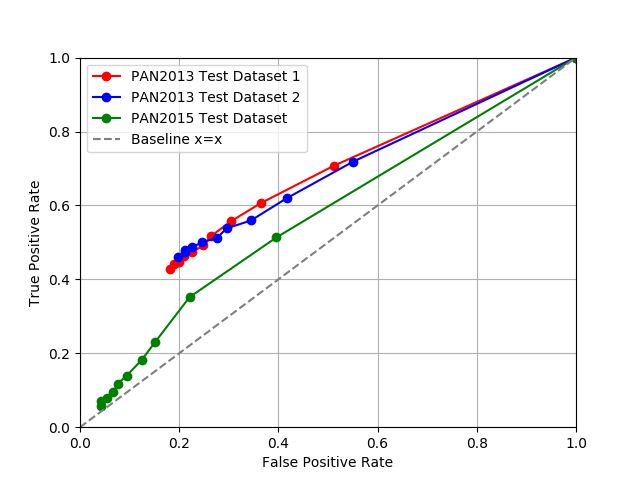
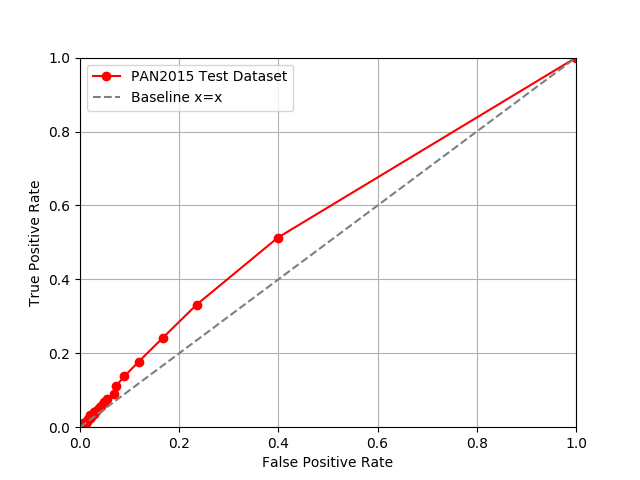
Add AUROC computation

diff --git a/report/graph_generation/delta_method_roc.py b/report/graph_generation/delta_method_roc.py
@@ -3,48 +3,48 @@
 import matplotlib.pyplot as plt
 import numpy as np
 
-# 13 1.
-tprs13_1 = np.array([
-    1.0, 0.7070000000000001, 0.60625, 0.55675, 0.5175, 0.49225, 0.47375,
-    0.46275000000000005, 0.44575, 0.4405, 0.42675])
-fprs13_1 = np.array([
-    1.0, 0.5112244897959184, 0.36448979591836733, 0.3038775510204082,
-    0.2646938775510204, 0.24877551020408162, 0.22653061224489796,
-    0.20918367346938777, 0.19918367346938776, 0.18918367346938775,
-    0.1816326530612245])
+tprs = np.array([
+    1.0, 0.5128, 0.33159999999999995, 0.2414, 0.17679999999999998, 0.1376,
+    0.1118, 8.88e-2, 7.58e-2, 6.82e-2, 5.74e-2, 5.08e-2, 4.44e-2, 3.98e-2,
+    3.5e-2, 3.18e-2, 2.6600000000000002e-2, 2.3799999999999998e-2, 2.4e-2,
+    2.2799999999999997e-2, 1.92e-2, 1.6e-2, 1.4199999999999999e-2,
+    1.1200000000000002e-2, 1.24e-2, 1.34e-2, 1.08e-2, 1.06e-2,
+    1.1200000000000002e-2, 1.06e-2, 7.6e-3, 9.2e-3, 6.999999999999999e-3,
+    7.2e-3, 6.2e-3, 4.4e-3, 5.8e-3, 5.8e-3, 3.4000000000000002e-3,
+    5.600000000000001e-3, 4.6e-3, 4.2e-3, 4.4e-3, 3.6e-3, 3.2e-3, 4.0e-3,
+    2.4e-3, 1.6e-3, 2.8000000000000004e-3, 2.6e-3, 2.8000000000000004e-3,
+    2.0e-3, 1.8e-3, 3.4000000000000002e-3, 2.4e-3, 2.6e-3, 6.0e-4, 1.2e-3,
+    1.8e-3, 1.2e-3, 1.4000000000000002e-3, 1.8e-3, 2.2e-3,
+    1.4000000000000002e-3, 2.0e-3, 1.8e-3, 1.4000000000000002e-3,
+    1.4000000000000002e-3, 1.4000000000000002e-3, 1.0e-3,
+    1.4000000000000002e-3, 1.4000000000000002e-3, 1.6e-3, 1.0e-3, 1.2e-3,
+    1.4000000000000002e-3, 8.0e-4, 1.6e-3, 6.0e-4, 1.0e-3, 8.0e-4, 4.0e-4,
+    8.0e-4, 1.0e-3, 6.0e-4, 4.0e-4, 2.0e-4, 6.0e-4, 4.0e-4, 4.0e-4, 6.0e-4,
+    4.0e-4, 0.0, 4.0e-4, 1.4000000000000002e-3, 8.0e-4, 6.0e-4, 2.0e-4,
+    4.0e-4, 2.0e-4, 2.0e-4, 0.0])
+fprs = np.array([
+    1.0, 0.39880000000000004, 0.2352, 0.1666, 0.11800000000000001, 8.94e-2,
+    7.26e-2, 6.82e-2, 5.42e-2, 4.8799999999999996e-2, 4.18e-2, 3.9e-2,
+    3.32e-2, 2.78e-2, 2.76e-2, 1.9799999999999998e-2, 2.2799999999999997e-2,
+    2.0e-2, 2.02e-2, 1.68e-2, 1.54e-2, 1.3999999999999999e-2,
+    1.2199999999999999e-2, 1.3000000000000001e-2, 1.28e-2, 1.18e-2, 1.16e-2,
+    8.4e-3, 8.199999999999999e-3, 8.0e-3, 4.8e-3, 5.600000000000001e-3,
+    7.8000000000000005e-3, 6.6e-3, 5.0e-3, 5.600000000000001e-3,
+    3.4000000000000002e-3, 3.2e-3, 4.0e-3, 3.8e-3, 2.4e-3, 4.2e-3, 2.2e-3,
+    3.2e-3, 1.6e-3, 2.4e-3, 2.0e-3, 1.8e-3, 1.6e-3, 1.4000000000000002e-3,
+    8.0e-4, 1.8e-3, 2.0e-4, 1.8e-3, 6.0e-4, 2.0e-4, 1.0e-3, 1.0e-3,
+    1.4000000000000002e-3, 8.0e-4, 2.8000000000000004e-3, 1.8e-3,
+    1.4000000000000002e-3, 8.0e-4, 1.6e-3, 1.0e-3, 1.0e-3, 1.0e-3, 8.0e-4,
+    8.0e-4, 8.0e-4, 1.2e-3, 1.0e-3, 6.0e-4, 4.0e-4, 8.0e-4, 4.0e-4, 6.0e-4,
+    6.0e-4, 4.0e-4, 2.0e-4, 4.0e-4, 0.0, 0.0, 0.0, 1.4000000000000002e-3,
+    4.0e-4, 2.0e-4, 0.0, 0.0, 2.0e-4, 2.0e-4, 4.0e-4, 4.0e-4, 6.0e-4, 0.0,
+    2.0e-4, 2.0e-4, 4.0e-4, 0.0, 0.0, 0.0])
 
-p = fprs13_1.argsort()
-fprs13_1 = fprs13_1[p]
-tprs13_1 = tprs13_1[p]
+p = fprs.argsort()
+fprs = fprs[p]
+tprs = tprs[p]
 
-# 13 2.
-tprs13_2 = np.array([
-    1.0, 0.7187301587301588, 0.6192063492063492, 0.5593650793650794,
-    0.5377777777777778, 0.5123809523809524, 0.5, 0.4873015873015873,
-    0.4795238095238095, 0.47269841269841273, 0.4612698412698413])
-fprs13_2 = np.array([
-    1.0, 0.5509375, 0.41640625, 0.3446875, 0.295625, 0.27609375, 0.24625,
-    0.22578125, 0.2121875, 0.21171875, 0.198125])
-
-p = fprs13_2.argsort()
-fprs13_2 = fprs13_2[p]
-tprs13_2 = tprs13_2[p]
-
-# 15.
-tprs15 = np.array([
-    1.0, 0.5134000000000001, 0.3518, 0.2316, 0.1822, 0.1398, 0.1176,
-    9.480000000000001e-2, 8.0e-2, 6.96e-2, 5.84e-2])
-fprs15 = np.array([
-    1.0, 0.396, 0.2208, 0.1522, 0.1246, 9.44e-2, 7.6e-2, 6.68e-2, 5.46e-2,
-    4.32e-2, 4.16e-2])
-
-p = fprs15.argsort()
-fprs15 = fprs15[p]
-tprs15 = tprs15[p]
-
-plt.plot(fprs13_1, tprs13_1, marker='o', c='r', label='PAN2013 Test Dataset 1')
-plt.plot(fprs13_2, tprs13_2, marker='o', c='b', label='PAN2013 Test Dataset 2')
-plt.plot(fprs15, tprs15, marker='o', c='g', label='PAN2015 Test Dataset')
+plt.plot(fprs, tprs, marker='o', c='r', label='PAN2015 Test Dataset')
 plt.plot([0.0, 1.0], linestyle='--', c='tab:gray', label='Baseline x=x')
 plt.grid(True)
 plt.ylim(0.0, 1.0)
@@ -53,3 +53,14 @@ plt.xlabel('False Positive Rate')
 plt.ylabel('True Positive Rate')
 plt.legend()
 plt.savefig('../pictures/delta_method_roc.png')
+
+area = 0.0
+for x in range(0, tprs.shape[0] - 1):
+    x1 = fprs[x]
+    x2 = fprs[x + 1]
+    y1 = tprs[x]
+    y2 = tprs[x + 1]
+
+    area += y1 * (x2 - x1) + ((x2 - x1) * (y2 - y1) * (1 / 2))
+
+print('AUROC', area)

diff --git a/report/results.tex b/report/results.tex
@@ -86,12 +86,13 @@ authors.
     \label{tab:delta_method_final_results}
 \end{table}
 
+The \gls{AUROC} for the delta method on the 2015 data was 0.56378.
+
 \begin{figure}
     \centering
     \includegraphics[width=.7\textwidth]{./pictures/delta_method_roc.png}
     \caption{The ROC curve of the delta method with number of opposing authors
-    varying from 0 to 10 using the two test datasets for PAN2013 and the test
-    dataset for PAN2015.}
+    varying from 0 to 100 using the test dataset for PAN 2015.}
     \label{fig:delta_method_roc}
 \end{figure}
 
@@ -113,12 +114,13 @@ the other hand, we also chose to train our model using the alternate subtraction
 encoding, which doesn't make use of the \gls{UBM}. The subtraction encoding
 under-performed relative to the \gls{UBM} approach, with an accuracy of 0.584.
 
-We have generated the \gls{AUROC} curve for both random forest tests. The curve
-is shown in Figure \ref{fig:forest_roc}. The curve was generated by computing
-the probability for each problem of the answer being "same author". Then
-different thresholds for when a answer is considered "same author" can be tried
-and the \gls{TPR} and \gls{FPR} can be computed for all thresholds. In our case
-we tried the thresholds $\{0.0, 0.01, \dots, 1.0\}$.
+We have generated the \gls{AUROC} curve for both random forest tests. The area
+under the curve was 0.63868 for the \gls{UBM} method and 0.56821 for the Minus
+method. The curves is shown in Figure \ref{fig:forest_roc}. The curve was
+generated by computing the probability for each problem of the answer being
+"same author". Then different thresholds for when a answer is considered "same
+author" can be tried and the \gls{TPR} and \gls{FPR} can be computed for all
+thresholds. In our case we tried the thresholds $\{0.0, 0.01, \dots, 1.0\}$.
 
 \begin{figure}
     \centering
@@ -144,7 +146,7 @@ authors. The accuracy obtained on the PAN 2013 test datasets were 0.73213 and
     \centering
     \includegraphics[width=.7\textwidth]{./pictures/extended_delta_method_roc.png}
     \caption{The ROC curve of the Extended Delta Method with number of opposing
-    authors varying from 0 to 10 using the test dataset for for PAN2015.}
+    authors varying from 0 to 100 using the test dataset for for PAN2015.}
     \label{fig:extended_delta_method_roc}
 \end{figure}
 

diff --git a/report/graph_generation/forest_roc.py b/report/graph_generation/forest_roc.py
@@ -66,3 +66,21 @@ plt.xlabel('False Positive Rate')
 plt.ylabel('True Positive Rate')
 plt.legend()
 plt.savefig('../pictures/forest_roc.png')
+
+p_area = 0.0
+m_area = 0.0
+for x in range(0, p_tprs.shape[0] - 1):
+    p_x1 = p_fprs[x]
+    p_x2 = p_fprs[x + 1]
+    p_y1 = p_tprs[x]
+    p_y2 = p_tprs[x + 1]
+    m_x1 = m_fprs[x]
+    m_x2 = m_fprs[x + 1]
+    m_y1 = m_tprs[x]
+    m_y2 = m_tprs[x + 1]
+
+    p_area += p_y1 * (p_x2 - p_x1) + ((p_x2 - p_x1) * (p_y2 - p_y1) * (1 / 2))
+    m_area += m_y1 * (m_x2 - m_x1) + ((m_x2 - m_x1) * (m_y2 - m_y1) * (1 / 2))
+
+print('AUROC Pancho', p_area)
+print('AUROC Minus', m_area)
